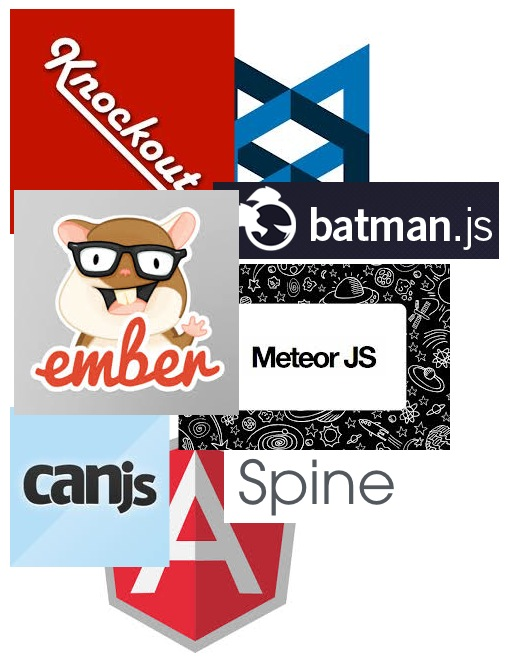
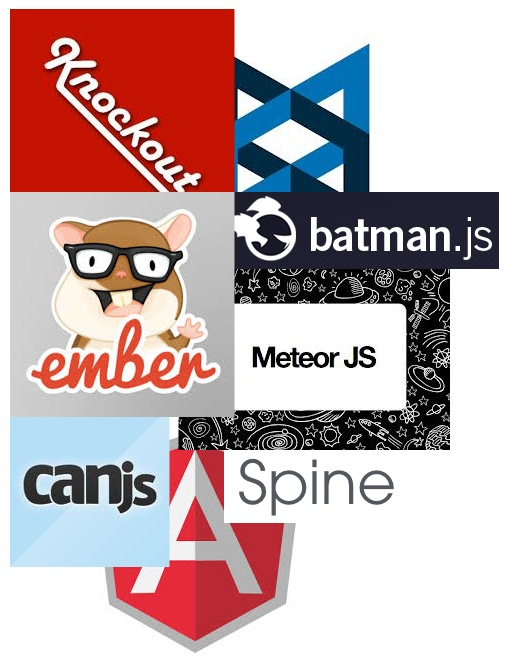
-image tweaks -new white backgrounds for some images

Changed region(s): [[0.0, 0.2715, 1.0, 0.6335]]

diff --git a/web-app/css/presentation-custom.css b/web-app/css/presentation-custom.css
@@ -1,13 +1,16 @@
 .reveal h2 {
 	margin-bottom: 1em;
 }
+.reveal h2.inverse {
+	color: #00aed8;
+}
 
 .focus-word { 
 	color: #00aed8;
 }
 
 .focus-word-inverse {
-	color: rgb(255,82,0);
+	color: #FBE66E;
 }
 
 .reveal section img {
@@ -20,9 +23,9 @@
 }
 
 .reveal .section-card a:not(.image):hover {
-	color: rgb(255,82,0);
+	color: #FBE66E;
 }
 .reveal .section-card a:not(.image) {
-	color: rgb(255, 82, 0);
+	color: #FBE66E;
 }
 
